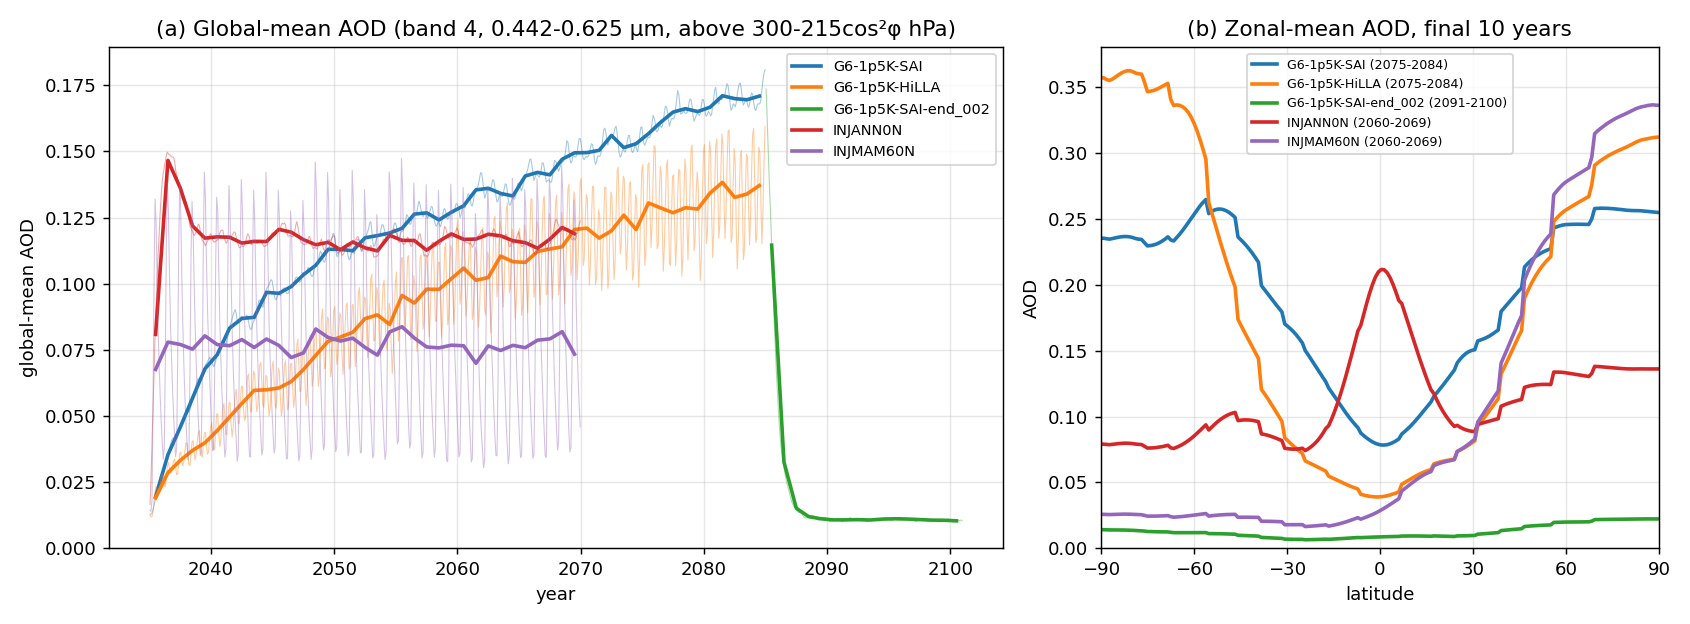
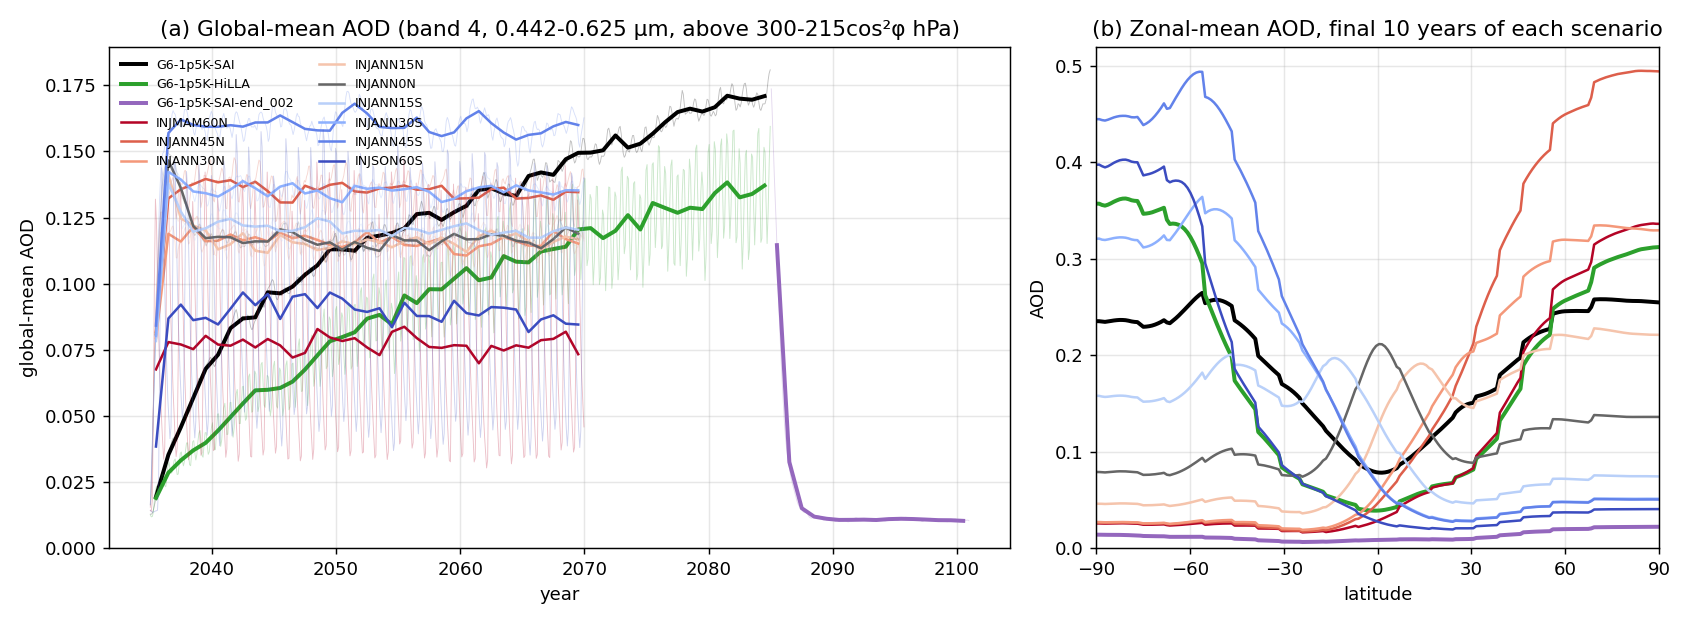
improve summary fig

diff --git a/plot_aod.py b/plot_aod.py
@@ -2,7 +2,7 @@
 """
 Approximate 550 nm stratospheric AOD from the finalized REMAP outputs.
 
-  python plot_aod.py                         # the five default scenarios
+  python plot_aod.py                         # every scenario in final/
   python plot_aod.py --names G6-1p5K-SAI INJANN0N --trop none --png aod.png
 
 AOD = sum over levels of ext_sun[band] * dz, with
@@ -28,6 +28,7 @@ years. Scenarios have different periods, so each uses its own last decade.
 import argparse
 import glob
 import os
+import re
 import sys
 
 import numpy as np
@@ -37,8 +38,33 @@ matplotlib.use("Agg")
 import matplotlib.pyplot as plt
 
 R_D, G = 287.04, 9.80616
-DEFAULT = ["G6-1p5K-SAI", "G6-1p5K-HiLLA", "G6-1p5K-SAI-end_002",
-           "INJANN0N", "INJMAM60N"]
+# Display order: feedback-controlled runs, then single-point injections N to S.
+ORDER = ["G6-1p5K-SAI", "G6-1p5K-HiLLA", "G6-1p5K-SAI-end_002",
+         "INJMAM60N", "INJANN45N", "INJANN30N", "INJANN15N", "INJANN0N",
+         "INJANN15S", "INJANN30S", "INJANN45S", "INJSON60S"]
+FIXED = {"G6-1p5K-SAI": "black", "G6-1p5K-HiLLA": "tab:green",
+         "G6-1p5K-SAI-end_002": "tab:purple"}
+
+
+def discover(final, model):
+    """All scenarios with a _sun file in final/, in display order."""
+    found = {os.path.basename(f)[len("geomip_WACCM_"):-len(f"_to_{model}_sun.nc")]
+             for f in glob.glob(os.path.join(final, f"geomip_WACCM_*_to_{model}_sun.nc"))}
+    return [n for n in ORDER if n in found] + sorted(found - set(ORDER))
+
+
+def style(name):
+    """Colour: fixed for the feedback runs; single-point runs coloured by
+    injection latitude (blue = south, red = north)."""
+    if name in FIXED:
+        return FIXED[name], 2.2
+    m = re.search(r"INJ[A-Z]{3}(\d+)([NS])", name)
+    if m:
+        lat = int(m.group(1)) * (1 if m.group(2) == "N" else -1)
+        if lat == 0:
+            return "0.4", 1.4     # the colormap's midpoint is too pale to see
+        return plt.get_cmap("coolwarm")((lat + 60) / 120), 1.4
+    return "0.5", 1.4
 
 
 def load(name, final, scen_root, band, model):
@@ -97,7 +123,8 @@ def gmean(x, lat):
 def main():
     ap = argparse.ArgumentParser(description=__doc__,
                                  formatter_class=argparse.RawTextHelpFormatter)
-    ap.add_argument("--names", nargs="+", default=DEFAULT)
+    ap.add_argument("--names", nargs="+",
+                    help="scenarios to plot (default: every scenario in final/)")
     ap.add_argument("--final-dir", default="final")
     ap.add_argument("--scen-root", default="scenarios")
     ap.add_argument("--model", default="NorESM2-LM")
@@ -113,29 +140,31 @@ def main():
                                    gridspec_kw={"width_ratios": [1.6, 1]})
     notes = set()
     print(f"{'scenario':22s} {'period':>11s} {'final-decade gm AOD':>20s}")
-    for i, name in enumerate(a.names):
+    names = a.names or discover(a.final_dir, a.model)
+    if not names:
+        sys.exit(f"no geomip_WACCM_*_to_{a.model}_sun.nc files in {a.final_dir}/")
+    for name in names:
         try:
             d = load(name, a.final_dir, a.scen_root, a.band, a.model)
         except (FileNotFoundError, ValueError) as e:
             print(f"{name:22s} skipped: {e}")
             continue
-        c = f"C{i}"
+        c, lw = style(name)
         tau = aod(d, a.trop)                                       # month, lat
         gm = gmean(tau, d["lat"])
         yrs = d["years"]
 
-        ax1.plot(yrs, gm, color=c, lw=0.6, alpha=0.4)
+        ax1.plot(yrs, gm, color=c, lw=0.5, alpha=0.25)
         nyear = len(gm) // 12
         ann = gm[:12 * nyear].reshape(nyear, 12).mean(1)
         ax1.plot(yrs[:12 * nyear].reshape(nyear, 12).mean(1), ann,
-                 color=c, lw=2, label=name)
+                 color=c, lw=lw, label=name)
 
         n = min(12 * a.years, len(gm))
         if n < 12 * a.years:
             notes.add(f"{name}: only {n} months available for the final mean")
         zm = tau[-n:].mean(0)
-        y0, y1 = int(yrs[-n]), int(yrs[-1])
-        ax2.plot(d["lat"], zm, color=c, lw=2, label=f"{name} ({y0}-{y1})")
+        ax2.plot(d["lat"], zm, color=c, lw=lw)
         if d["tsrc"] != "prepped WACCM T":
             notes.add(f"{name}: dz from {d['tsrc']}")
         print(f"{name:22s} {int(yrs[0])}-{int(yrs[-1]):>4d} "
@@ -149,13 +178,12 @@ def main():
     ax1.set(xlabel="year", ylabel="global-mean AOD",
             title=f"(a) Global-mean AOD ({band_txt}, {trop_txt})")
     ax2.set(xlabel="latitude", ylabel="AOD", xlim=(-90, 90),
-            title=f"(b) Zonal-mean AOD, final {a.years} years")
+            title=f"(b) Zonal-mean AOD, final {a.years} years of each scenario")
     ax2.set_xticks(range(-90, 91, 30))
     for ax in (ax1, ax2):
         ax.grid(alpha=0.3)
         ax.set_ylim(bottom=0)
-    ax1.legend(fontsize=8)
-    ax2.legend(fontsize=7)
+    ax1.legend(fontsize=7, ncol=2, loc="upper left", frameon=False)
     if notes:
         fig.text(0.01, 0.005, "; ".join(sorted(notes)), fontsize=7)
     fig.tight_layout(rect=(0, 0.03 if notes else 0, 1, 1))

diff --git a/zenodo_upload.py b/zenodo_upload.py
@@ -1,0 +1,105 @@
+#!/usr/bin/env python
+"""
+Upload files to an existing Zenodo draft, safely re-runnable.
+
+  read -s -p "Zenodo token: " ZENODO_TOKEN; export ZENODO_TOKEN; echo
+  python zenodo_upload.py --deposition 1234567 final/*.nc final/MANIFEST.txt README.md
+
+For each file:
+  - already in the draft with the same size (and MD5, unless --no-md5) -> skipped
+  - otherwise uploaded (replacing any partial/mismatched copy), and the MD5
+    Zenodo reports is checked against the local file.
+So after an interruption, just run the same command again.
+
+--sandbox targets sandbox.zenodo.org (separate account and token) for a
+rehearsal. The script never publishes: review the draft in the browser and
+press Publish there.
+"""
+import argparse
+import hashlib
+import os
+import sys
+import time
+
+import requests
+
+
+def md5(path):
+    h = hashlib.md5()
+    with open(path, "rb") as f:
+        for b in iter(lambda: f.read(1 << 24), b""):
+            h.update(b)
+    return h.hexdigest()
+
+
+def human(n):
+    return f"{n / 1e9:.2f} GB" if n >= 1e8 else f"{n / 1e6:.1f} MB"
+
+
+def main():
+    ap = argparse.ArgumentParser(description=__doc__,
+                                 formatter_class=argparse.RawTextHelpFormatter)
+    ap.add_argument("files", nargs="+")
+    ap.add_argument("--deposition", required=True, help="draft id (number in the upload URL)")
+    ap.add_argument("--sandbox", action="store_true")
+    ap.add_argument("--no-md5", action="store_true",
+                    help="skip local checksums (faster; compares sizes only)")
+    a = ap.parse_args()
+
+    token = os.environ.get("ZENODO_TOKEN")
+    if not token:
+        sys.exit("set ZENODO_TOKEN first (see the usage at the top of this script)")
+    host = "https://sandbox.zenodo.org" if a.sandbox else "https://zenodo.org"
+    auth = {"Authorization": f"Bearer {token}"}
+
+    r = requests.get(f"{host}/api/deposit/depositions/{a.deposition}", headers=auth, timeout=60)
+    if r.status_code != 200:
+        sys.exit(f"could not read draft {a.deposition}: HTTP {r.status_code} {r.text[:300]}")
+    dep = r.json()
+    if dep.get("submitted"):
+        sys.exit("this record is already published; create a new version for new files")
+    bucket = dep["links"]["bucket"]
+    remote = {f["filename"]: (int(f["filesize"]), f["checksum"].replace("md5:", ""))
+              for f in dep.get("files", [])}
+
+    missing = [f for f in a.files if not os.path.isfile(f)]
+    if missing:
+        sys.exit("not found: " + ", ".join(missing))
+    total = sum(os.path.getsize(f) for f in a.files)
+    print(f"draft {a.deposition} on {host}: {len(remote)} file(s) already there; "
+          f"{len(a.files)} local file(s), {human(total)}\n")
+
+    failed = []
+    for path in a.files:
+        name, size = os.path.basename(path), os.path.getsize(path)
+        local = None if a.no_md5 else md5(path)
+        if name in remote and remote[name][0] == size and (a.no_md5 or remote[name][1] == local):
+            print(f"skip      {name} (already uploaded)")
+            continue
+        print(f"upload    {name} ({human(size)}) ...", end="", flush=True)
+        t0 = time.time()
+        try:
+            with open(path, "rb") as fh:
+                r = requests.put(f"{bucket}/{name}", data=fh, headers=auth, timeout=None)
+            r.raise_for_status()
+            got = r.json().get("checksum", "").replace("md5:", "")
+        except Exception as e:
+            print(f" FAILED: {e}")
+            failed.append(name)
+            continue
+        rate = size / max(time.time() - t0, 1e-3) / 1e6
+        if local and got != local:
+            print(f" CHECKSUM MISMATCH (local {local}, Zenodo {got})")
+            failed.append(name)
+        else:
+            print(f" ok, {rate:.0f} MB/s" + ("" if a.no_md5 else ", md5 verified"))
+
+    print()
+    if failed:
+        print(f"{len(failed)} file(s) failed: {', '.join(failed)}\nRe-run the same command to retry.")
+        sys.exit(1)
+    print(f"All files are in the draft. Review and publish at {host}/uploads/{a.deposition}")
+
+
+if __name__ == "__main__":
+    main()
